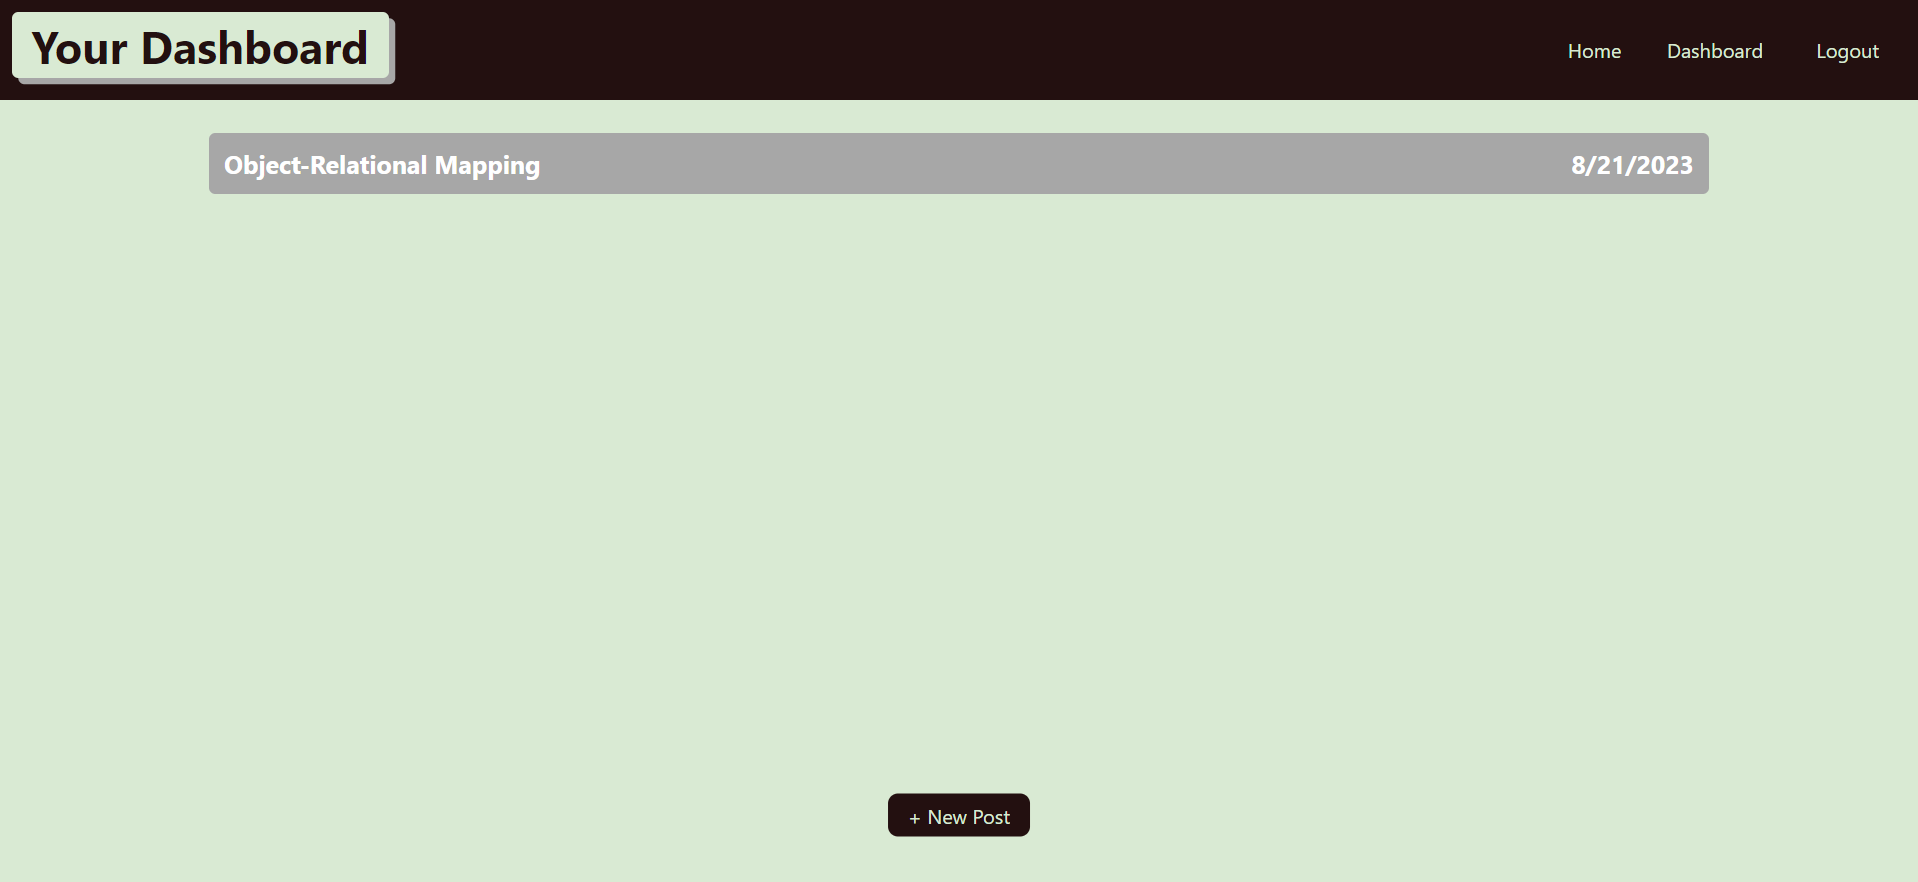
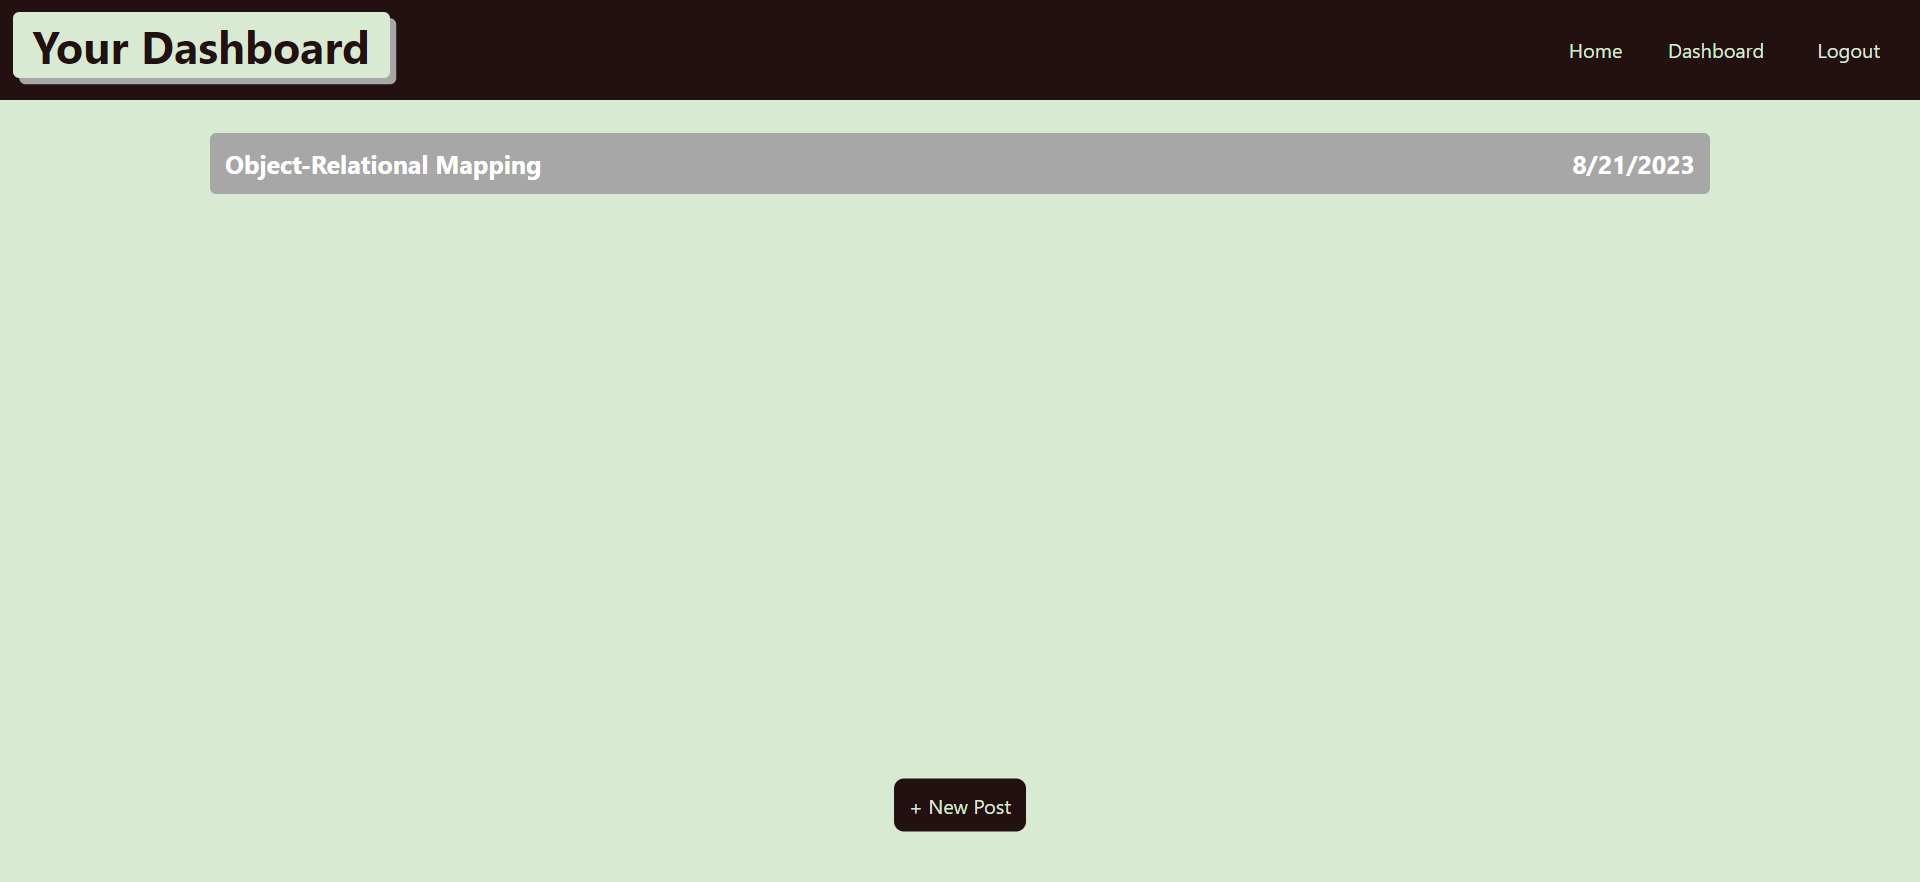
Update new post button.

diff --git a/public/css/style.css b/public/css/style.css
@@ -117,7 +117,7 @@ textarea {
     left: 50%;
     bottom: 20px;
     transform: translate(-50%, -50%);
-    padding: 0.5rem 1rem;
+    padding: 0.75rem;
     border-radius: 0.5rem;
     margin: 0 auto;
 }

diff --git a/README.md b/README.md
@@ -4,7 +4,7 @@
 
 CMS-style blog site similar to a Wordpress site, where developers can publish thier blog posts and comment on other developers' posts as well. Follows the MVC paradigm in ths architechtural structure, using Handlebars.js as the templating language, Sequelize as the ORM, and the express-session npm package for authentication.
 
-# Screenshots
+## Screenshots
 
 ![Screenshot of login page.](./screenshots/login-page-screenshot.png)
 ![Screenshot of signup page.](./screenshots/signup-screenshot.png)
